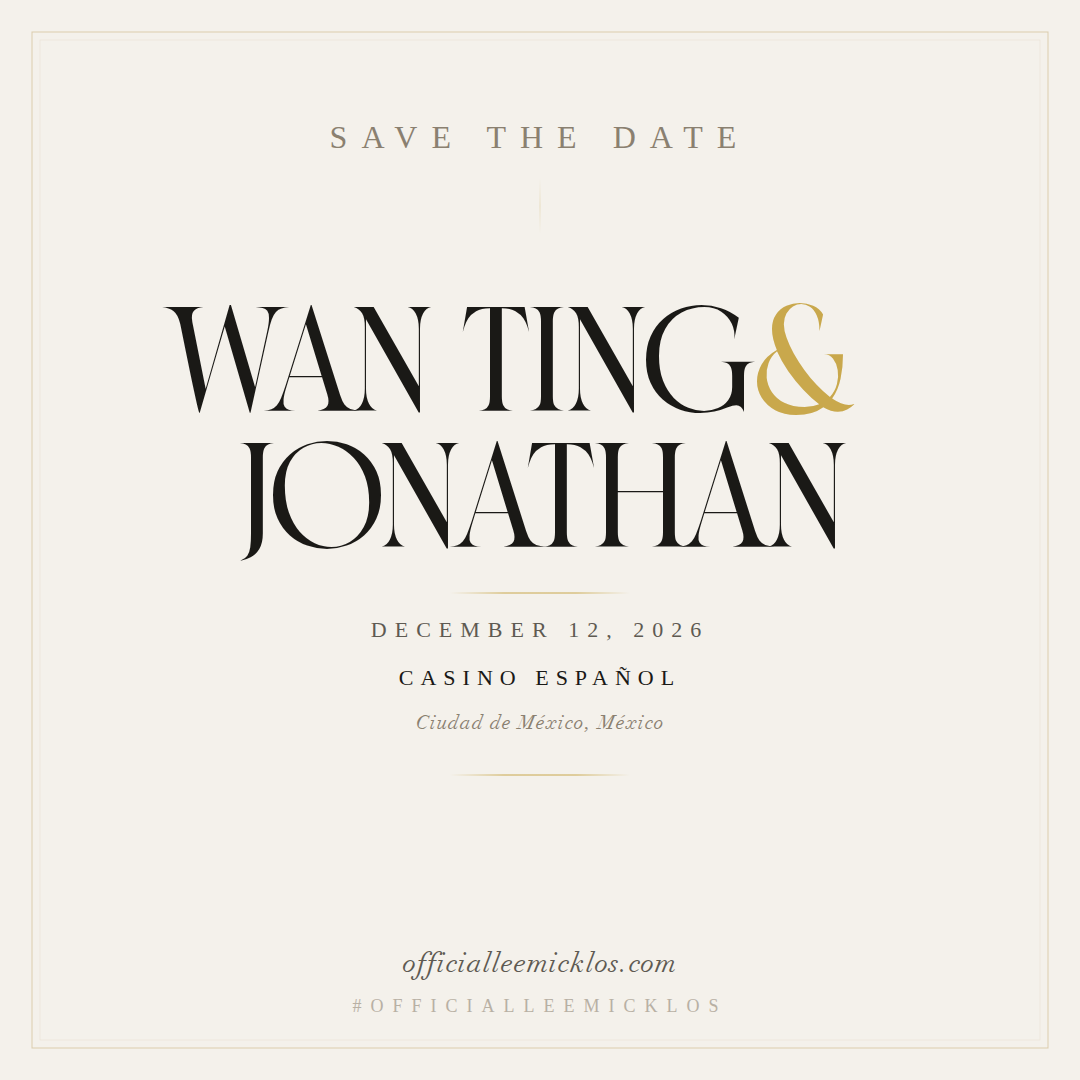
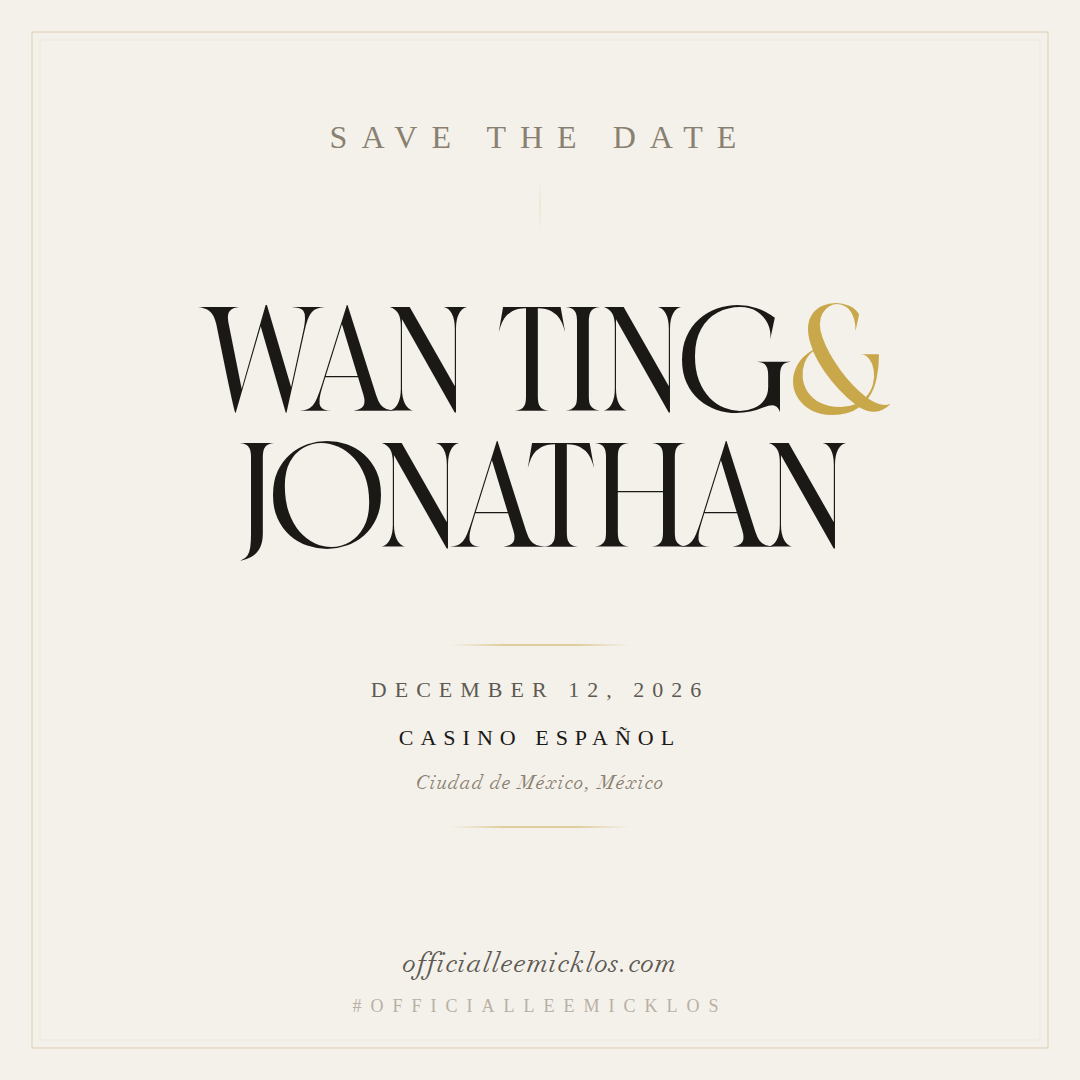
Updates to save-the-dates AND updating the website style slightly

Changed region(s): [[0.1528, 0.275, 0.825, 0.3972], [0.3667, 0.5806, 0.6417, 0.7333]]

diff --git a/css/style_bak.css b/css/style_bak.css
@@ -10,20 +10,17 @@
 }
 
 :root {
-  --nav-h: 87px; /* fallback, overridden by JS */
-  --off-white: #f4f1eb;
-  --warm-white: #f4f1eb;
+  --off-white: rgb(250,250,250);
+  --warm-white: #f5f4ef;
   --charcoal: #2C2C2C;
   --soft-black: #2f2e2e;
   --softer-black: #5a5858;
   --taupe: #8B8178;
   --gold: #C9A961;
-  --light-gold: #f2ead9;
+  --light-gold:f2ead9;
   --blush: #E8DDD4;
   --sage: #9CAF96;
-  --gold-border: rgba(201,169,97,0.55);
-  --cream-border: rgba(244,241,235,0.22);
-  --major-border-color: var(--gold-border);
+  --major-border-color: var(--off-white);
 }
 
 @font-face {
@@ -88,14 +85,13 @@ nav {
   left: 0;
   right: 0;
   z-index: 1000;
-  padding: 0.8vw 3vw;
+  padding: 1.5vw 3vw;
   display: flex;
   justify-content: center;
   align-items: center;
   gap: 3vw;
-  background: transparent;
+  background: var(--light-gold);
   backdrop-filter: blur(10px);
-  -webkit-backdrop-filter: blur(10px);
   transition: all 0.4s ease;
 }
 
@@ -112,7 +108,7 @@ nav a {
   text-transform: uppercase;
   color: var(--charcoal);
   text-decoration: none;
-  padding: 0;
+  padding: 0.5vw 0;
   position: relative;
   transition: color 0.3s ease;
 }
@@ -138,9 +134,6 @@ nav a:hover {
 
 nav.light-text {
   color: var(--off-white);
-  background: transparent;
-  backdrop-filter: blur(10px);
-  -webkit-backdrop-filter: blur(10px);
 }
 
 nav.light-text a {
@@ -156,15 +149,7 @@ nav.light-text a:hover {
    HERO SECTION
    ============================================ */
 .hero {
-  height: calc(100vh - var(--nav-h));
-  height: calc(100dvh - var(--nav-h));
-  justify-content: center;
-  align-items: center;
-  gap: 1vh;
-  /* padding-top shifts content below the fixed nav */
-  /* no padding-top needed — nav spacer div handles the gap */
-  box-shadow: inset 0 0 0 12px var(--off-white), inset 0 0 0 13px rgba(201,169,97,0.6), inset 0 0 0 19px var(--off-white), inset 0 0 0 20px rgba(201,169,97,0.25);
-  position: relative;
+
   display: flex;
   flex-direction: column;
   justify-content: center;
@@ -173,11 +158,10 @@ nav.light-text a:hover {
   padding-left: 0vw;
   padding-right: 0vw ;
   position: relative;
-  /* side borders via html outline */
+  border-left: 2px solid;
+  border-right: 2px solid;
+  border-image: linear-gradient(to bottom, var(--major-border-color), var(--off-white)) 1;
 }
-
-
-
 
 .hero::before {
   content: '';
@@ -196,22 +180,19 @@ nav.light-text a:hover {
    HOME SECTION
    ============================================ */
 #home {
-  height: calc(100vh - var(--nav-h));
-  height: calc(100dvh - var(--nav-h));
-  max-height: calc(100vh - var(--nav-h));
-  max-height: calc(100dvh - var(--nav-h));
-  overflow: hidden;
+  min-height: 100vh;
+  padding-top: calc(8vw - 2vh);
 }
 
 
 .tag-line {
-  font-size: clamp(0.5rem, calc(.5vw + 1vh), 1.1rem);
+  font-size: calc(.5vw + 1.25vh);
   font-family: 'Didot Italic';
   color: var(--taupe);
-  letter-spacing: clamp(0.1em, .4vw, .5em);
+  letter-spacing: .5em;
   opacity: 0;
   animation: fadeInUp 1s ease 2s forwards;
-  margin: clamp(8px, 2vh, 24px) 0;
+  margin: .25vw;
 }
 
 .couple-names {
@@ -227,8 +208,8 @@ nav.light-text a:hover {
 
 
 #couple-names-header {
-  margin-top: 0;
-  font-size: clamp(2rem, min(14vw, 22vh), 14rem);
+  margin-top:4vw;
+  font-size: calc(12vw + 2vh);
   line-height: .8em;
   letter-spacing: -0.05em;
   white-space: nowrap;
@@ -245,7 +226,7 @@ nav.light-text a:hover {
 
 .wedding-date {
   font-family: 'Didot', serif;
-  font-size: calc(1vw + 1.2vh);
+  font-size: calc(.75vw + 1vh);
   /*font-weight: 400;*/
   letter-spacing: 0.2em;
   text-transform: uppercase;
@@ -267,7 +248,7 @@ nav.light-text a:hover {
 
 .wedding-location {
   font-family: 'Brand', serif;
-  font-size: calc(1vw + 1.2vh);
+  font-size: calc(.75vw + 1vh);
   /*font-style: italic;*/
   color: var(--charcoal);
   opacity: 0;
@@ -280,10 +261,9 @@ nav.light-text a:hover {
 .countdown {
   display: flex;
   gap: 2.5vw;
-  margin-bottom: 0;
+  margin-bottom: 0rem;
   opacity: 0;
   animation: fadeInUp 1s ease 1.1s forwards;
-  flex-shrink: 0;
 }
 
 .countdown-item {
@@ -292,7 +272,7 @@ nav.light-text a:hover {
 
 .countdown-number {
   font-family: 'Brand', serif;
-  font-size: calc(1.2vw + 2.4vh);
+  font-size: calc(1vw + 2vh);
   font-weight: 300;
   color: var(--soft-black);
   line-height: 1;
@@ -300,7 +280,7 @@ nav.light-text a:hover {
 
 .countdown-label {
   font-family: 'Jost', sans-serif;
-  font-size: calc(.4vw + .8vh);
+  font-size: calc(.3vw + .7vh);
   letter-spacing: 0.2vw;
   text-transform: uppercase;
   color: var(--taupe);
@@ -312,10 +292,9 @@ nav.light-text a:hover {
   height: 1px;
   width: 10em;
   background: var(--gold);
-  margin: clamp(4px, 1vh, 16px) auto;
+  margin: calc(2vh + 1vw);
   opacity: 0;
   animation: expandLine 1s ease 1.7s forwards;
-  flex-shrink: 0;
 }
 
 .page-break-line {
@@ -328,9 +307,8 @@ nav.light-text a:hover {
 }
 
 .dark-section {
-  background-color: var(--soft-black);
+  background-color:var(--soft-black);
   color: var(--off-white);
-  box-shadow: inset 0 0 0 12px var(--soft-black), inset 0 0 0 13px rgba(201,169,97,0.6), inset 0 0 0 19px var(--soft-black), inset 0 0 0 20px rgba(201,169,97,0.25);
 }
 /* ============================================
    COMING SOON
@@ -424,7 +402,7 @@ nav.light-text a:hover {
 section {
   padding: 6vw 20vw;
   margin: 0 auto;
-  box-shadow: inset 0 0 0 12px var(--off-white), inset 0 0 0 13px rgba(201,169,97,0.6), inset 0 0 0 19px var(--off-white), inset 0 0 0 20px rgba(201,169,97,0.25);
+  
 }
 
 .section-title {
@@ -540,7 +518,7 @@ section {
 .detail-card {
   padding: 3rem 2rem;
   background: var(--warm-white);
-  border: 1px solid var(--gold-border);
+  border: 1px solid var(--major-border-color);
   transition: transform 0.3s ease, box-shadow 0.3s ease;
   display: flex;
   flex-direction: column;
@@ -651,7 +629,6 @@ section {
    ============================================ */
 .rsvp-section {
   padding: 6rem 2rem;
-  box-shadow: inset 0 0 0 12px var(--soft-black), inset 0 0 0 13px rgba(201,169,97,0.6), inset 0 0 0 19px var(--soft-black), inset 0 0 0 20px rgba(201,169,97,0.25);
   text-align: center;
   max-width: none;
   min-height: 90vh;
@@ -764,7 +741,7 @@ footer {
   text-align: center;
   padding: 4rem 2rem;
   background: var(--off-white);
-  box-shadow: inset 0 0 0 12px var(--off-white), inset 0 0 0 13px rgba(201,169,97,0.6), inset 0 0 0 19px var(--off-white), inset 0 0 0 20px rgba(201,169,97,0.25);
+  border-top: 1px solid var(--major-border-color);
 }
 
 .footer-text {

diff --git a/js/main_bak.js b/js/main_bak.js
@@ -163,23 +163,6 @@ function initSmoothScroll() {
    INITIALIZE ON DOM LOAD
    ============================================ */
 document.addEventListener('DOMContentLoaded', function() {
-
-  // Set --nav-h CSS variable from actual nav height, used by spacer + hero
-  function setNavHeight() {
-    const nav = document.getElementById('navbar');
-    if (nav) {
-      const h = nav.getBoundingClientRect().height;
-      document.documentElement.style.setProperty('--nav-h', h + 'px');
-    }
-  }
-  setNavHeight();
-  // Use ResizeObserver on the nav itself for instant accurate updates
-  const navEl = document.getElementById('navbar');
-  if (navEl && window.ResizeObserver) {
-    new ResizeObserver(setNavHeight).observe(navEl);
-  }
-  window.addEventListener('resize', setNavHeight);
-
   updateCountdown();
   setInterval(updateCountdown, 1000);
 

diff --git a/index_bak.html b/index_bak.html
@@ -46,9 +46,6 @@
     
   </nav>
 
-  <!-- Nav height spacer — sits in flow before hero so border starts below nav -->
-  <div id="nav-spacer" style="height: var(--nav-h); flex-shrink: 0;"></div>
-
   <!-- Hero Section -->
   <section class="hero" id="home">
 
